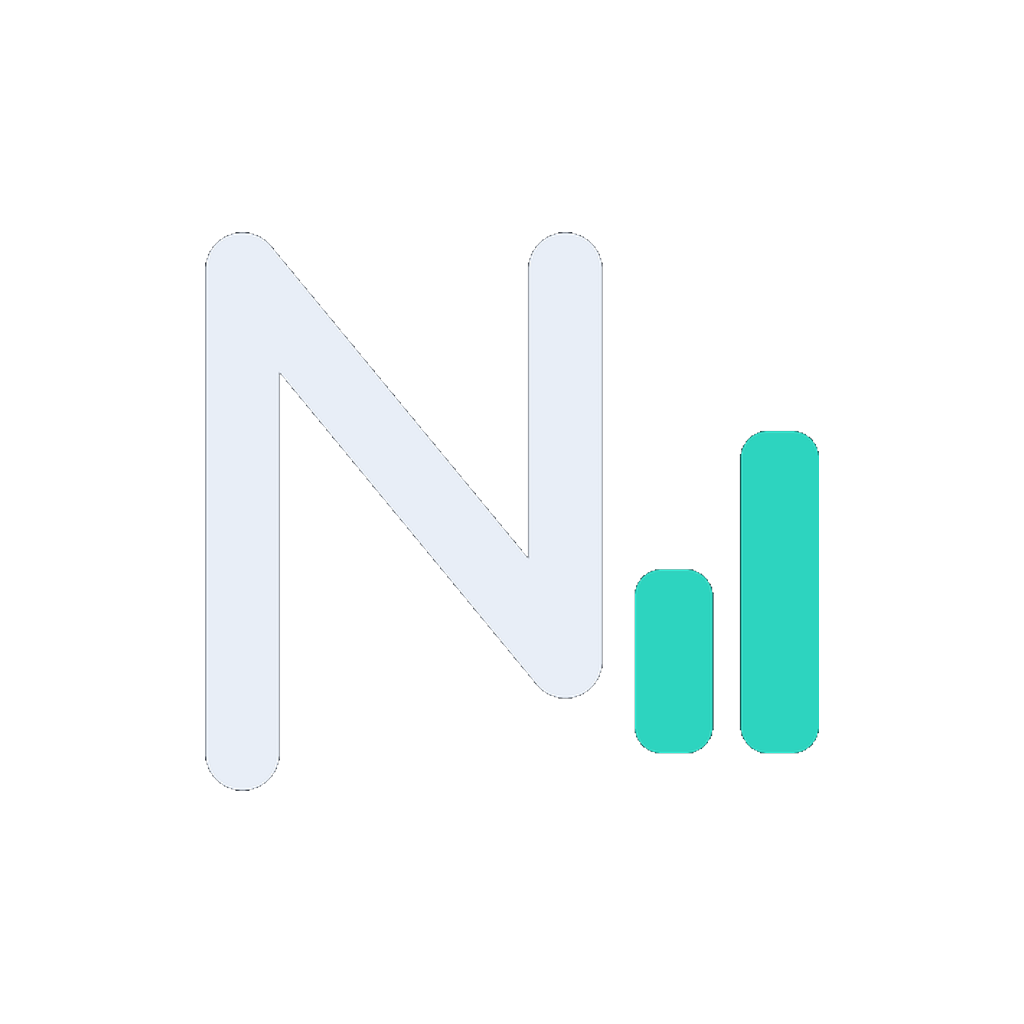
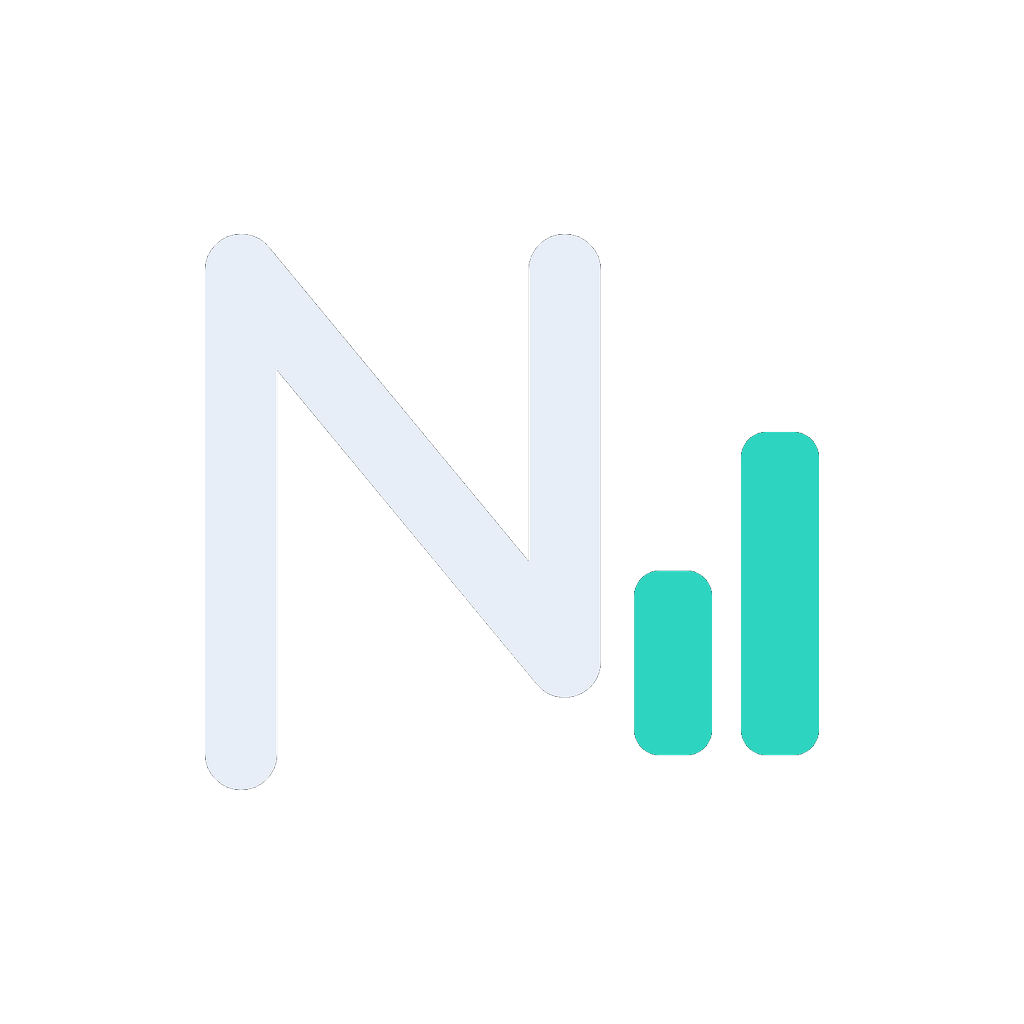
magaza teslimindeki son eksik kapandi: vektor marka asli
`mobil/magaza/netaris-marka.svg` artik deponun vektor marka aslidir
ve ikonlar ondan ciziliyor. Onceden 512x512 raster LANCZOS ile
1024'e buyutuluyordu; "vektorden uretilmis asil dosya istenmeli"
notu magaza belgelerinde TEK acik madde olarak duruyordu.

Vektor dosya arandi, bulunamadi. Cozum onu BEKLEMEK degil, 512'lik
rasterin geometrisini OLCEREK geri cikarmak oldu -- raster zaten
vektorden uretilmisti (kenar yumusatma pikselleri toplamin yalnizca
%0,5'i), yani sekiller tam kurtarilabilirdi:

    kalem kalinligi  50     sol kolun yatay dilimi x=55..104
    N cizgisi        M 80 431 L 80 96 L 304 367 L 304 96
    cubuk A          x=352 y=304 54x128
    cubuk B          x=426 y=208 54x224
    ikon kose yarıcapi 101,5   y=0 satirinda opak x=101..410

CUBUK KOSE YARICAPI TAHMIN EDILMEDI. Sekiz aday (12..27) Chrome ile
cizildi ve ozgun rasterle piksel piksel kiyaslandi; en kucuk fark
r=18'de (ortalama 1,34/255 = %0,5). Kalan fark kenar yumusatmasi.

DOGRULAMA
  * Uretilen 1024 goruntu gozle de karsilastirildi: marka birebir.
  * Uyarlanabilir ikon ve tek renk siluet GUVENLI BOLGEDE
    (kutu 205..819 x 234..790; Android guvenli bolgesi %66).
  * `icon.png` ve `favicon.png` tam kanvas -- iOS kendi maskesini
    uyguladigi icin DOGRU olan bu.

SITE VARLIKLARINA DOKUNULMADI: `site/statik/marka/netaris-512.png`
favicon ve apple-touch-icon olarak yayinda, oldugu gibi kaldi. Yeni
dosyalar `mobil/magaza/` altinda ve siteye YAYINLANMIYOR -- adres
sayisi artmiyor.
[…]

Changed region(s): [[0.625, 0.7188, 0.6562, 0.75]]

diff --git a/mobil/ikon_uret.py b/mobil/ikon_uret.py
@@ -13,14 +13,31 @@ Marka varligi depoda zaten var (`site/statik/marka/netaris-512.png`)
 Elle yapilsa: logo degistiginde uygulama ikonu ESKI kalirdi ve
 hicbir sey bunu haber vermezdi. Betikle tek komut.
 
-KAYNAGIN SINIRI ACIKCA YAZILIYOR
---------------------------------
-Depodaki en buyuk marka rendisi 512x512 raster; vektor kaynak YOK
-(arandi, bulunamadi). 1024'e buyutme LANCZOS ile yapiliyor ve
-sekiller basit oldugu icin sonuc kabul edilebilir. Yine de MAGAZA
-TESLIMINDEN ONCE vektorden uretilmis 1024'luk bir asil dosya
-istenmeli -- bu betik o dosya geldiginde KAYNAK yolunu degistirmek
-disinda degismez.
+KAYNAK ARTIK VEKTORDEN GELIYOR (2026-10-20)
+-------------------------------------------
+Onceden depodaki en buyuk rendi 512x512 rasterdi ve 1024'e LANCZOS
+ile buyutuluyordu. Vektor asil dosya ARANDI, bulunamadi -- ve bu,
+magaza teslimindeki son eksikti.
+
+Cozum: 512'lik rasterin geometrisi OLCULEREK geri cikarildi. Raster
+zaten vektorden uretilmisti (kenar yumusatma piksellerinin orani
+yalnizca %0,5), yani sekiller tam olarak kurtarilabilirdi:
+
+    kalem kalinligi  50     (sol kol dilimi x=55..104)
+    N cokgen cizgisi M 80 431 L 80 96 L 304 367 L 304 96
+    cubuk A          x=352 y=304 54x128
+    cubuk B          x=426 y=208 54x224
+    ikon kose yaricapi 101,5  (y=0 satirinda opak x=101..410)
+
+Cubuk kose yaricapi TAHMIN EDILMEDI, olculdu: sekiz aday (12..27)
+cizildi ve ozgun rasterle piksel piksel kiyaslandi; en kucuk fark
+r=18'de (ortalama 1,34/255 = %0,5, belirgin sapma %0,98). Kalan fark
+kenar yumusatmasi.
+
+Asil dosya: `magaza/netaris-marka.svg`. PNG'ye cevirmek icin
+`node magaza/svg_ciz.mjs magaza/netaris-marka.svg cikti.png 1024`
+(Chrome ile cizdiriyor; betigin kendisi bagimlilik eklemiyor cunku
+URETILMIS PNG depoda duruyor).
 
 URETILENLER
 -----------
@@ -51,7 +68,10 @@ except ImportError:                       # pragma: no cover
     raise SystemExit(1)
 
 KOK = pathlib.Path(__file__).resolve().parent.parent
-KAYNAK = KOK / "site" / "statik" / "marka" / "netaris-512.png"
+#: Vektor asil dosyadan (`magaza/netaris-marka.svg`) 1024px olarak
+#: cizilmis PNG. Site varliklarina DOKUNULMUYOR: `netaris-512.png`
+#: favicon ve apple-touch-icon olarak yayinda ve oldugu gibi kaliyor.
+KAYNAK = KOK / "mobil" / "magaza" / "netaris-1024.png"
 HEDEF = KOK / "mobil" / "assets"
 
 #: Marka zemini -- kaynaktaki en sik renk. `app.json` icindeki

diff --git a/mobil/magaza/README.md b/mobil/magaza/README.md
@@ -69,9 +69,44 @@ kalmasını sağlıyor.
 
 ---
 
-## Eksik olan tek şey
+## Vektör asıl dosya — artık var (2026-10-20)
 
-**1024 px vektör ikon.** Depodaki en büyük marka rendisi 512×512
-raster; `ikon_uret.py` onu büyütüyor ve sonuç kabul edilebilir, ama
-mağaza teslimi için vektörden üretilmiş bir asıl dosya istenmeli.
-Dosya geldiğinde betikte yalnızca `KAYNAK` yolu değişir.
+`netaris-marka.svg` deponun vektör marka aslıdır; `netaris-1024.png`
+ondan çizilmiştir ve `ikon_uret.py` artık onu kaynak alır.
+
+Vektör dosya **aranmış, bulunamamıştı.** Çözüm, 512'lik rasterin
+geometrisini ölçerek geri çıkarmak oldu — raster zaten vektörden
+üretilmişti (kenar yumuşatma pikselleri toplamın yalnızca %0,5'i),
+yani şekiller tam olarak kurtarılabilirdi:
+
+| Ölçülen | Değer | Nereden |
+|---|---|---|
+| Kalem kalınlığı | 50 | Sol kolun yatay dilimi `x=55..104` |
+| N çokgen çizgisi | `M 80 431 L 80 96 L 304 367 L 304 96` | Kol merkezleri ve yuvarlak uç payı (25) |
+| Çubuk A | `x=352 y=304 54×128` | Teal sütun grupları |
+| Çubuk B | `x=426 y=208 54×224` | Teal sütun grupları |
+| İkon köşe yarıçapı | 101,5 | `y=0` satırında opak aralık `x=101..410` |
+| Çubuk köşe yarıçapı | 18 | **Ölçüldü, tahmin edilmedi** (aşağıda) |
+
+Çubuk yarıçapı için sekiz aday (12–27) Chrome ile çizilip özgün
+rasterle piksel piksel karşılaştırıldı. En küçük fark `r=18`:
+
+    r12  ortalama fark 1.49    r18  ortalama fark 1.34  <-- en iyi
+    r14  ortalama fark 1.45    r20  ortalama fark 1.35
+    r16  ortalama fark 1.39    r22  ortalama fark 1.42
+                               r27  ortalama fark 1.64
+
+1,34/255 = **%0,5**; kalan fark kenar yumuşatmasıdır.
+
+### Yeniden çizmek gerektiğinde
+
+    node magaza/svg_ciz.mjs magaza/netaris-marka.svg cikti.png 1024
+
+Chrome ile çizdiriyor. Betik bir **bağımlılık eklemiyor**: üretilmiş
+PNG depoda duruyor, kurulum sırasında hiçbir şey çizilmiyor.
+
+### Site varlıklarına dokunulmadı
+
+`site/statik/marka/netaris-512.png` favicon ve apple-touch-icon
+olarak yayında; olduğu gibi kaldı. Bu dizindekiler yalnızca
+uygulamayı besliyor.

diff --git a/MOBIL-MAGAZA.md b/MOBIL-MAGAZA.md
@@ -249,7 +249,7 @@ iOS yayını ayrı karar (99 USD/yıl).
 
 | Konu | Durum |
 |---|---|
-| **1024 px vektör ikon** | Depodaki en büyük marka rendisi 512 raster; büyütüldü, kabul edilebilir ama asıl dosya istenmeli |
+| **1024 px vektör ikon** | **Tamam (2026-10-20).** `mobil/magaza/netaris-marka.svg` vektör asıl dosyadır; geometrisi 512'lik rasterden ölçülerek çıkarıldı, çubuk köşe yarıçapı sekiz aday arasından piksel karşılaştırmasıyla seçildi (fark %0,5). İkonlar artık vektörden çiziliyor |
 | **Uygulama içi hesap silme** | ÇÖZÜLDÜ — Profil → Hesabımı sil |
 | **TradingView uygulama içi şartları** | **Okundu (2026-10-20) — eklenmeyecek.** Madde 3 ayrı anlaşma olmadan ticari kullanımı ve "TradingView içeriğine dayalı ürün"ü yasaklıyor; mağazada dağıtılan ticari bir uygulama bu tanıma giriyor. Uygulamada gömülü YOK ve olmayacak; sitedekiler atfıyla kalıyor |
 | **Bildirimler** | Arka uç yok; uygulamada bildirim izni İSTENMİYOR, dolayısıyla formda da beyan yok. Faz 4d |
